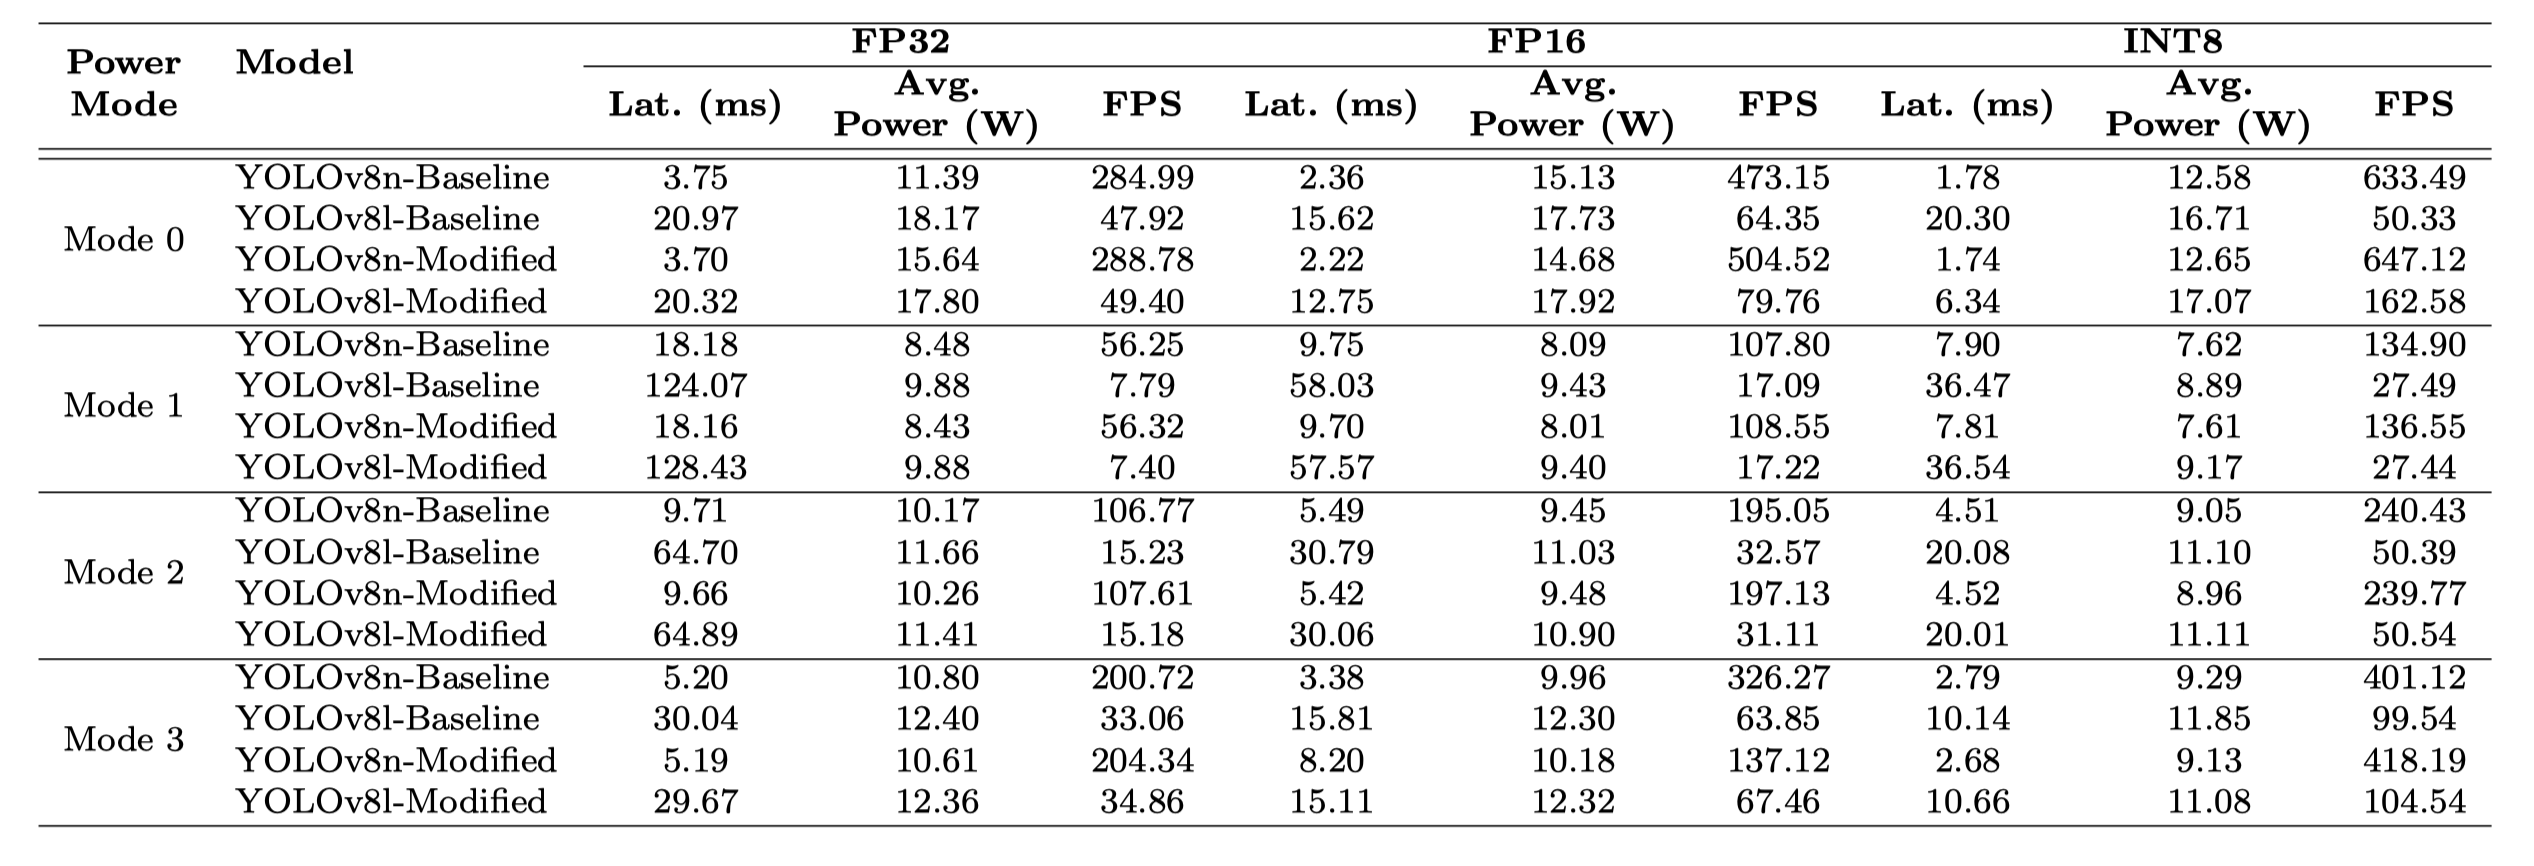
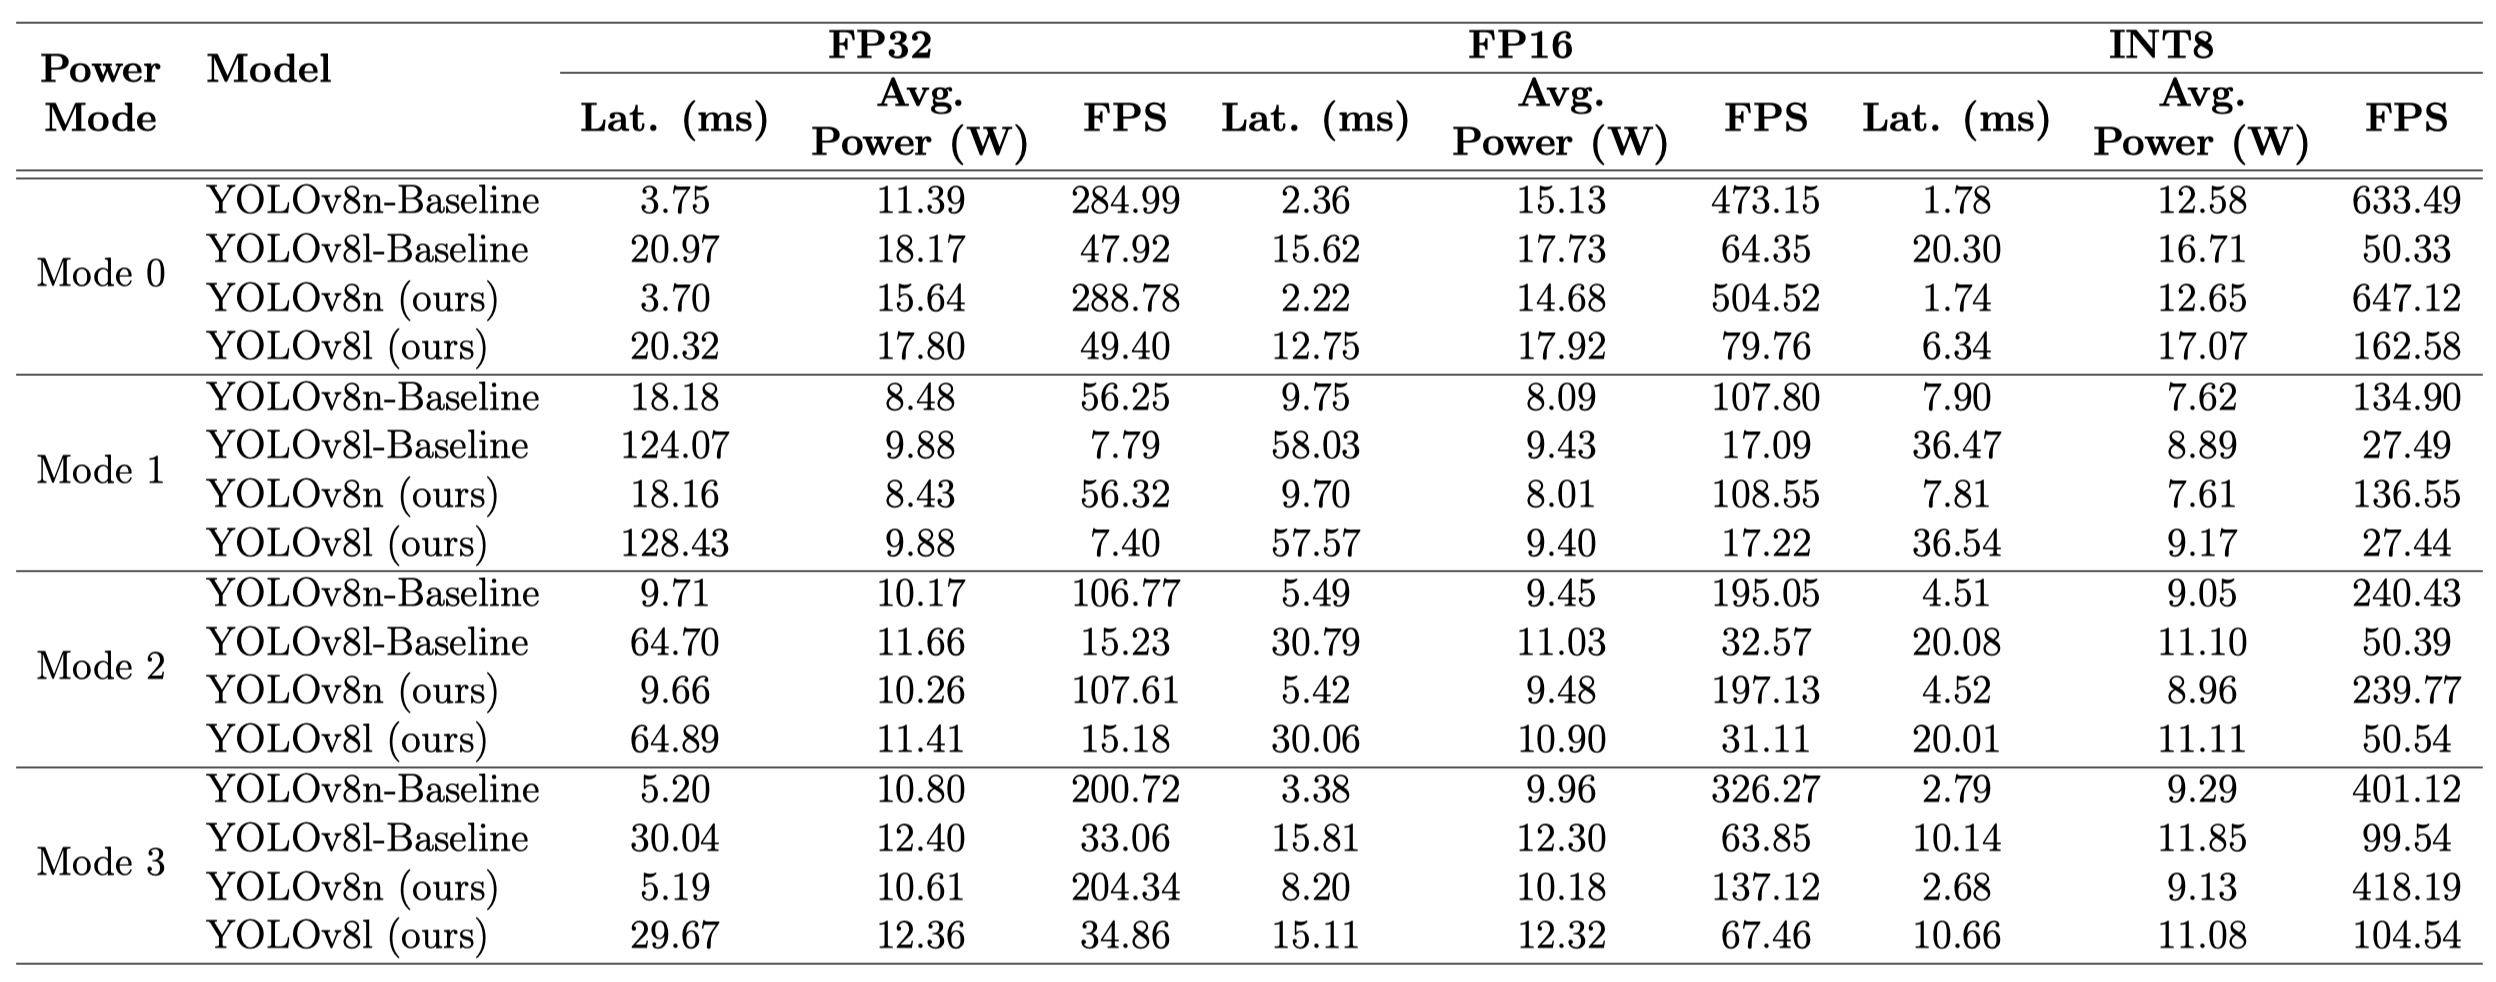
updates files and info

Changed region(s): [[0.0, 0.0, 1.0, 0.9977]]

diff --git a/README.md b/README.md
@@ -1,4 +1,4 @@
-# Modified YOLOv8 Architecture with SAHI-Based Inference for Real-Time Maritime Object Detection on Edge Devices
+# Enhanced Object Detection in Maritime Vision: Modified YOLOv8 Architecture and SAHI-Based Inference
 
 <img alt="license" src="https://img.shields.io/github/license/mashape/apistatus.svg"/>
 
@@ -102,7 +102,7 @@ except ImportError:
     from ultralytics.nn.modules.head import Detect as DetectEnhanced
     from ultralytics.nn.modules.conv import Conv as ECAAttention
 ```
-Then, in the tasks.py file you have to add other specific functions for the modules based on our proposal that are detailed in the file: `YoloModified/Modificaciones_tasks.py`
+Then, in the tasks.py file you have to add other specific functions for the modules based on our proposal that are detailed in the file: `YoloModified/tasks_modifications.py`
 
 Step 5: Before running the training using the script `Script_train/verify_modules.py` we can check if the modules are correctly imported and working.  
 
@@ -127,10 +127,21 @@ $ python /Script_train/Yolov8_maritime.py
 <img src="image_tables/AGX_modes.png" alt="bench 1" width="100%"> 
 
 
-## 7. Publications
+## 7. Ablation Study
+### 7.1 Impact of Individual Modules
+<img src="image_tables/ablation_result.png" alt="bench 1" width="100%"> 
+
+
+## 8. Comparison with State-of-the-Art Detectors
+<img src="image_tables/sota_detectors.png" alt="bench 1" width="100%"> 
+
+## 9. Cross-domain Generalization
+<img src="image_tables/genera_dataset.png" alt="bench 1" width="100%"> 
+
+## 10. Publications
 
 Title: "Enhanced Object Detection for Maritime Vision via Modified YOLOv8 Architecture and SAHI-Based Inference".  
-Journal: 
+Journal:  
 
-## 8. Acknowledgements
+## Acknowledgements
 This paper has been partially funded by the EU (FEDER), the Spanish MINECO under grants PID2021-126576NB-I00 and TED2021-130123B-I00 funded by MCIN/AEI/10.13039/501100011033 and by European Union "ERDF A way of making Europe" and the NextGenerationEU/PRT. J.L.M. thanks the National Secretariat of Science, Technology and Innovation (SENACYT) of Panama for financial support during the completion of his PhD.
